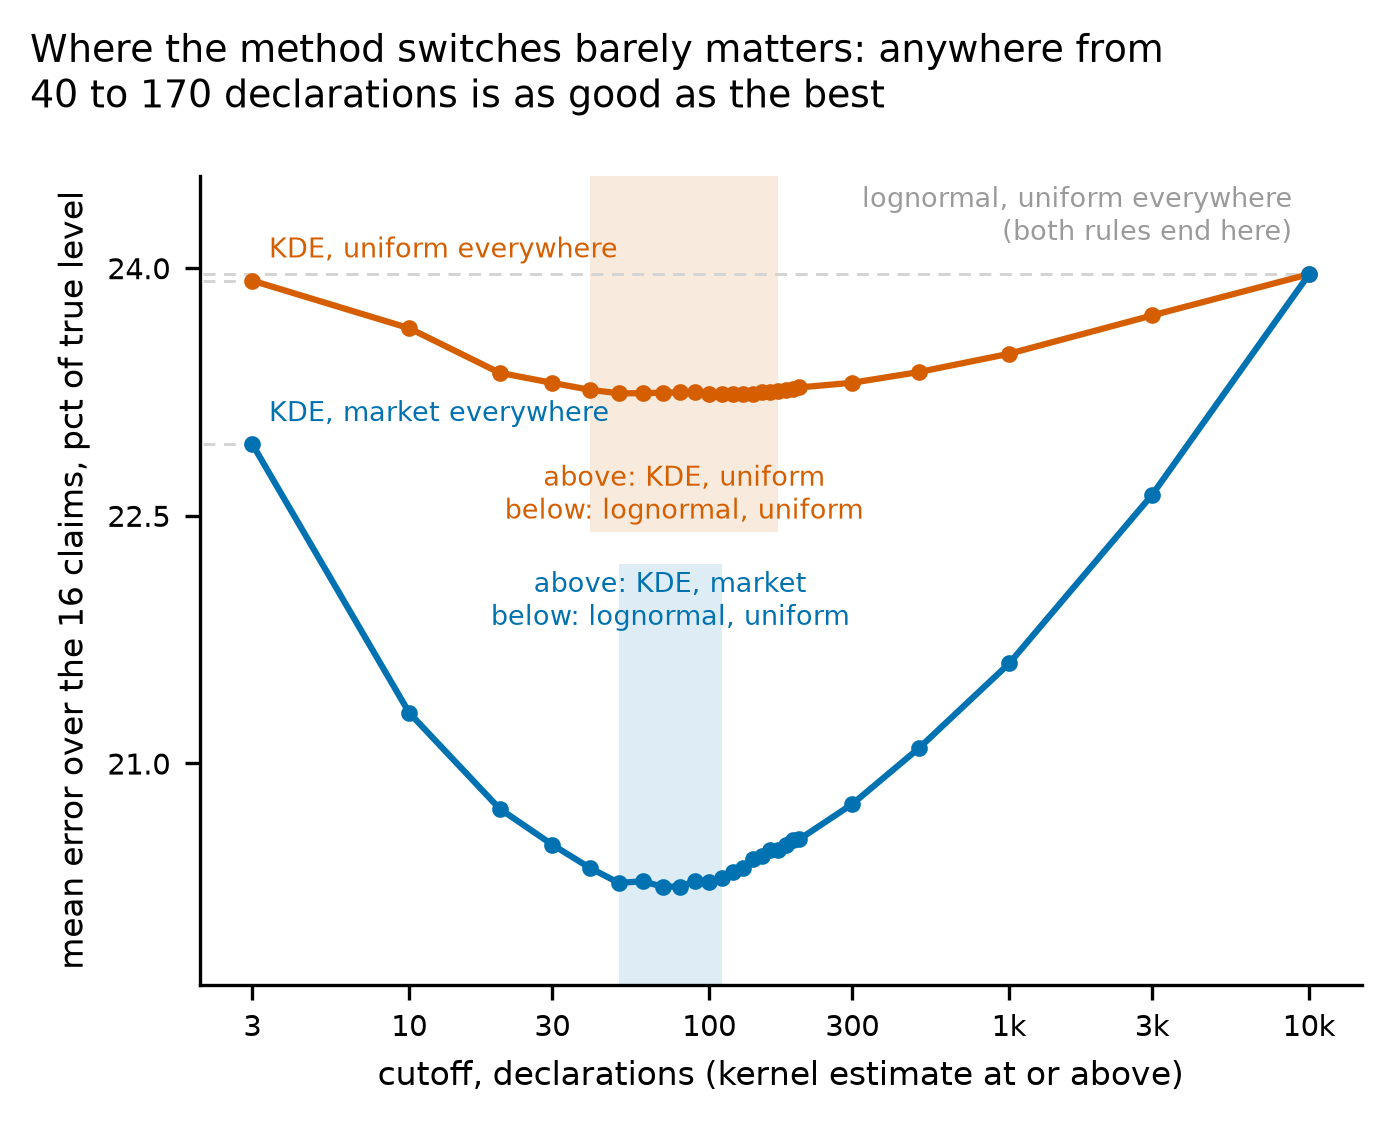
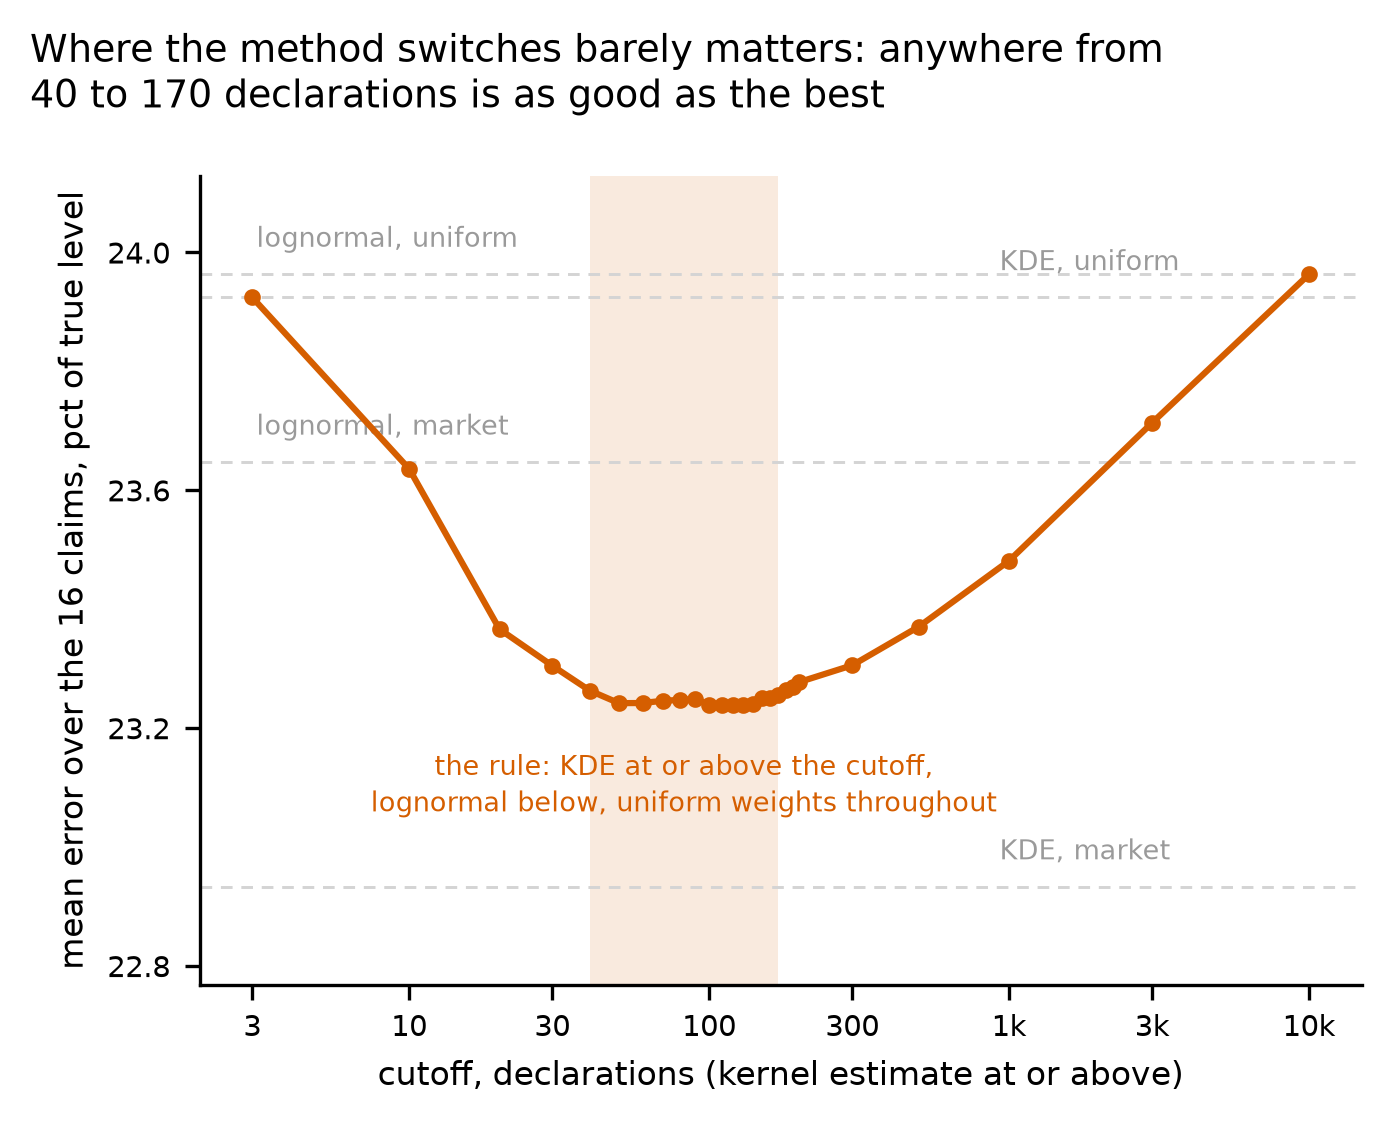
One curve, four reference lines: the figure does one job
The author's objection stands: neither curve isolated a principle. The feasible
curve switches family with weighting held at uniform, which is the family
question CONDITIONAL on uniform weights rather than the family principle -- that
would need the same switch under market weights too. The known-share curve
switches both axes at once and isolates nothing. Two curves that each answer a
mixed question invite a reader to compare them as if they were two principles.

SO THE PANEL NOW DOES ONE JOB: substantiate the cutoff range for the rule the
paper recommends. One curve, the four fixed methods as dashed reference lines,
and the 40-to-170 band.

THE CURVE IS THE FEASIBLE RULE AND NOT THE KNOWN-SHARE ONE, which is the one
point where this departs from what the author asked for, because the two reasons
given for keeping the known-share curve do not hold together: decisions 216 and
217 make the FEASIBLE rule the paper's recommendation precisely because nobody
publishes market shares, and 40 to 170 is the feasible rule's band -- the
known-share rule's is 50 to 110. Swapping the curve is a one-line change if the
author wants the other reading.

What market shares are worth leaves this panel with it. The gap was 2.98 points
between the two curves and only 0.30 points to the nearest fixed market-weighted
line, so with one curve the figure can no longer carry headline 2; the claim
scorecard and the size-band table carry the weighting question instead, which is
[…]

diff --git a/reports/STAGE_REPORT_2j.md b/reports/STAGE_REPORT_2j.md
@@ -118,55 +118,36 @@ rule at all is worth.
 ## 2b. The figure
 
 ![Mean error over the sixteen claims a probabilistic LCA makes, each divided by
-its own true level, against the cutoff on a log axis. **Both curves sweep the
-same thing -- where the method switches -- and they share their BELOW branch**,
-so the vertical gap between them is purely what knowing market share buys on the
-materials above the cutoff.
+its own true level, against the cutoff on a log axis. **One curve, and it is the
+rule the paper recommends**: a kernel estimate at or above the cutoff, a
+three-parameter lognormal below, uniform weights throughout because nobody
+publishes market shares.
 
-**Orange: KDE with uniform weights above the cutoff, three-parameter lognormal
-with uniform weights below. This is the rule a reader can follow.** Blue: the
-same, except the materials above the cutoff get their true market shares, which
-nobody publishes -- so it is a value of information, not a method.
+**The panel does one job -- substantiate the cutoff range -- and the shaded band
+is the answer: 40 to 170 declarations, all indistinguishable from the best.**
+The curve's own ends are the self-check: at a cutoff of 3 every dataset takes a
+kernel estimate and at 10,000 every dataset takes a lognormal, and both land on
+those fixed methods to 0.00e+00.
 
-**Each curve's end points ARE the fixed methods and are labelled there**, which
-is why the panel carries no separate reference lines: at a cutoff of 3 every
-dataset takes the above-method, and at 10,000 every dataset takes the
-below-method. Both curves therefore end at the same point, lognormal with
-uniform weights, and that shared end is checked to **0.00e+00** on every run.
+**The four dashed lines are the four fixed methods**, so the rule can be read
+against every constant choice. The rule beats both uniform-weighted methods --
+the ones a reader can actually choose between -- and still sits above both
+market-weighted ones, which is the headroom market shares would buy.
 
-**The shaded bands are each curve's own indistinguishable span, in its own
-colour and on its own half of the panel** -- orange 40 to 170, blue 50 to 110 --
-and each curve's label sits on the facing edge of its own band. A light dashed
-rule runs from each vertex back to the y axis so the three end points can be
-read against the scale.
+**WHAT MARKET SHARES ARE WORTH IS NOT ON THIS PANEL, deliberately.** An earlier
+version carried a second curve for the known-share rule and the vertical gap
+between the two was the 2.98 points of headline 2. It was cut because neither
+curve isolated a principle: this one switches family with the weighting held at
+uniform, which is the family question CONDITIONAL on uniform weights, and the
+other switched both axes at once. Two curves that each answer a mixed question
+invite the reader to compare them as though they were two principles. The
+weighting question is carried by the claim scorecard and the size-band table,
+which compare every method on every claim and can make that case properly.
 
-**TWO OTHER TWO-BRANCH RULES EXIST AND NEITHER EARNS A CURVE.** Both put market
-shares BELOW the cutoff, which is where section 4 measures them doing harm.
-`KDE market above / lognormal market below` -- market shares everywhere, only
-the family switching -- is measured at **0.2296**, against 0.2025 for the rule
-that uses shares only above the cutoff: putting them below costs 13 percent of
-the gain. `KDE uniform above / lognormal market below` is the exact inverse of
-this stage's finding, using shares only where they hurt and not where they help;
-it is now in the code as a named BACKWARDS CONTROL and the next run will report
-it. A rule built backwards should lose to both recommended rules, and if it does
-not, something upstream is wrong.
-
-**The sixth fixed method, a lognormal with market weights at 23.65, is not on
-this panel.** Neither swept rule can produce it: both use a kernel estimate
-above the cutoff, so a lognormal-with-market-weights policy belongs to a third
-rule family that was not swept. It is worth one line of text rather than a line
-on the figure, because it beats the better of the two uniform-weighted fixed
-methods -- 23.65 against 23.92 -- and still needs market shares nobody
-publishes. It is in `TABLE_MixedPolicyRanking.csv`.
-Neither is the 80-to-100 band for when market share starts helping: that is a
-per-dataset measurement against the true parent (section 4) and does not live on
-this axis.
-
-*If the image does not render:* two shallow U curves on a log x axis from 3 to
-10,000 declarations. The orange one runs from 23.92 percent at a cutoff of 3
-down to 23.24 around 130 and back up to 23.96 at 10,000. The blue one runs from
-22.93 down to 20.25 around 70 to 80 and back up to 23.96, meeting the orange
-curve there.
+*If the image does not render:* one shallow U curve on a log x axis from 3 to
+10,000 declarations, running from 23.92 percent at a cutoff of 3 down to 23.24
+around 130 and back up to 23.96 at 10,000, with a shaded band over 40 to 170 and
+four horizontal dashed reference lines at 23.96, 23.92, 23.65 and 22.93.
 
 ## 3. What the rule buys, claim by claim
 
